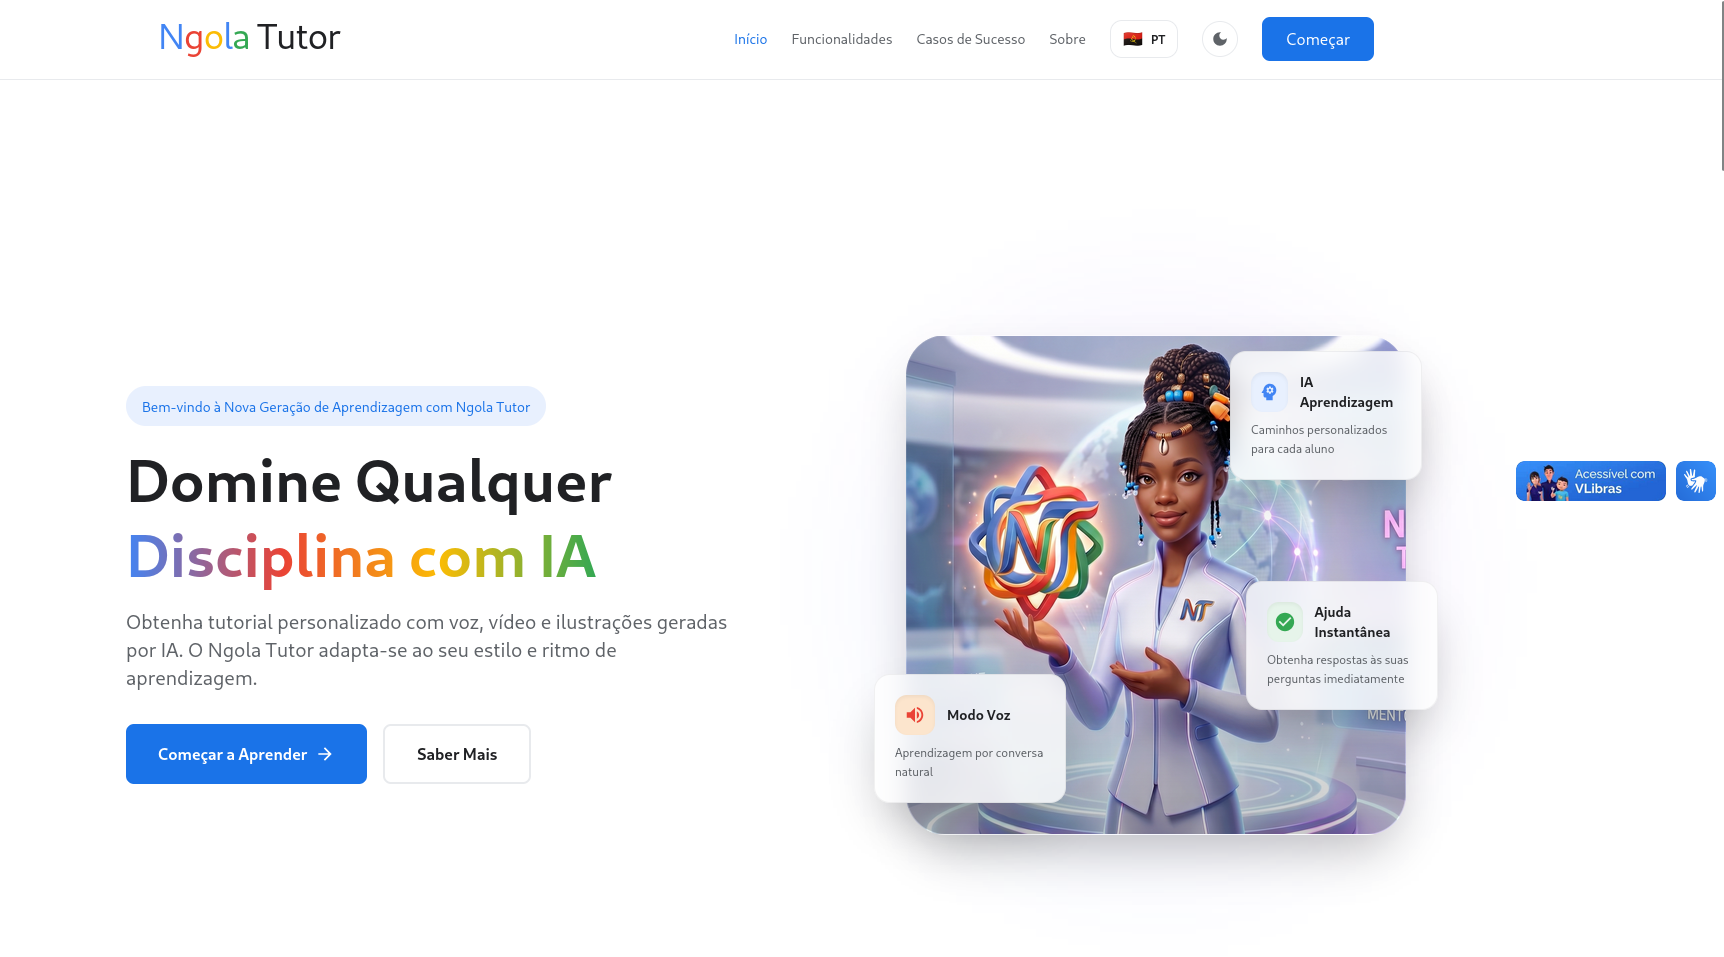
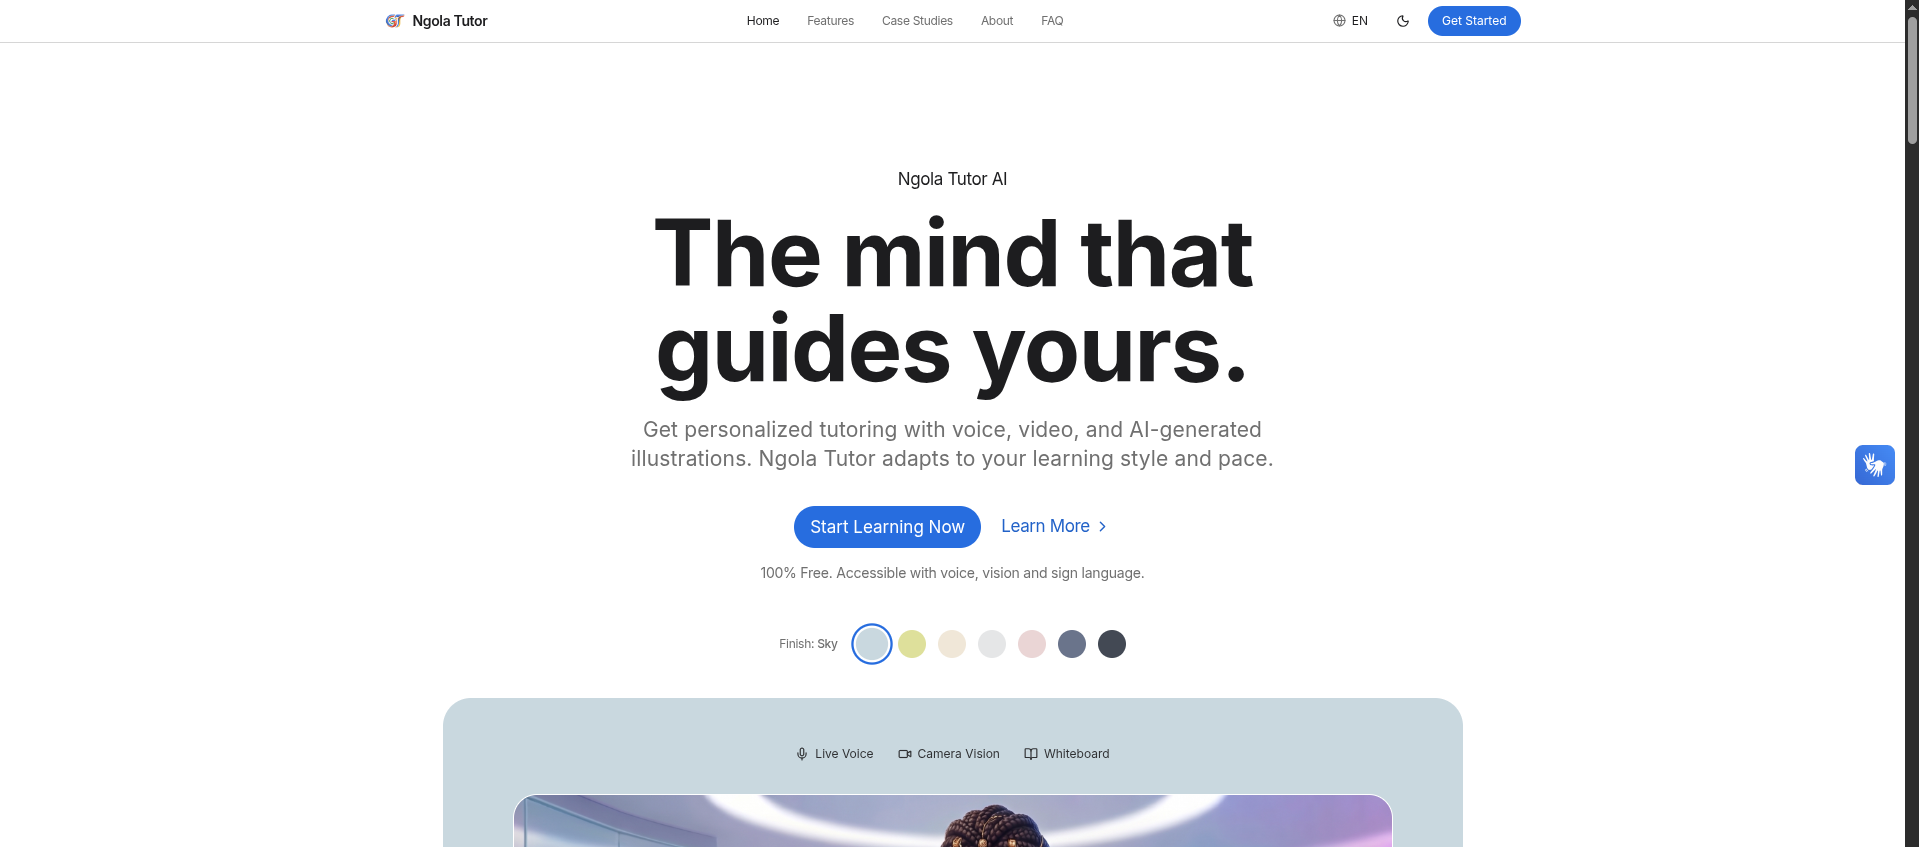
update: nova atualização de todos os dados concluidos com sucesso. falta trabalhar na biblioteca

diff --git a/public/portfolio.html b/public/portfolio.html
@@ -2659,6 +2659,7 @@
         </button>
         <div class="lang-menu" id="langMenu">
           <button onclick="changeLanguage('pt')">🇦🇴 Português</button>
+          <button onclick="changeLanguage('en')">🇺🇸 English</button>
         </div>
       </div>
 
@@ -2678,7 +2679,7 @@
         <!--<div class="hero-eyebrow" data-i18n="hero.eyebrow"><span class="ms sm fill" style="color:green">fiber_manual_record</span>
           Disponível para Consultoria de TI</div> -->
         <h1 class="hero-name">Tiago<br /><em>Matias</em></h1>
-        <div class="hero-role"><span class="role-text" id="roleText">Desenvolvedor de Software | Engenheiro de Software)</span></div>
+        <div class="hero-role"><span class="role-text" id="roleText">Desenvolvedor de Software | Engenheiro de Software</span></div>
         <p class="hero-desc" data-i18n="hero.desc">Desenvolvedor Software com mais de 3 anos de experiência prática em Aplicações Web, Mobile e Automação de Sistemas</p>
         <div class="hero-actions">
           <a class="btn-primary" id="resumeDownloadLink" href="/asset/Tiago_Matias_CV.pdf"
@@ -2791,11 +2792,11 @@
         <div class="skill-card reveal">
           <div class="skill-card-title" data-i18n="skills.cyber">Cibersegurança</div>
           <div class="skill-tags">
-            <span class="skill-tag hl">IBSEC</span><span class="skill-tag hl">Analista Soc na era da IA</span>
+            <span class="skill-tag hl">IBSEC</span><span class="skill-tag hl">Analista SOC na era da IA</span>
             <span class="skill-tag">CyberTalent</span><span class="skill-tag">Labs</span>
-            <span class="skill-tag">MBX Brasil- Treinamento de segurança de Informação</span>Imersão<span class="skill-tag"></span>
-            <span class="skill-tag">Hacker The Box</span><span class="skill-tag">Red Team</span>
-            <span class="skill-tag">Cisco</span><span class="skill-tag">Skills to all Academy</span>
+            <span class="skill-tag">MBX Brasil - Treinamento de Segurança da Informação</span><span class="skill-tag">Imersão</span>
+            <span class="skill-tag">Hack The Box</span><span class="skill-tag">Red Team</span>
+            <span class="skill-tag">Cisco</span><span class="skill-tag">Skills for All Academy</span>
             <span class="skill-tag">Google</span><span class="skill-tag">Google Skills</span>
           </div>
         </div>
@@ -2926,7 +2927,40 @@
       </div>
       <div class="projects-grid" id="projectsGrid">
 
-        <!-- 1. Ngola Tutor -->
+        <!-- 1. Heetch Easy -->
+        <div class="project-card reveal" data-cat="design">
+          <div class="project-thumb">
+            <img src="heetch.png" alt="Heetch Easy" />
+            <span class="project-badge b-ux">UI/UX</span>
+          </div>
+          <div class="project-body">
+            <div class="project-title">Heetch Easy</div>
+            <div class="project-desc" data-i18n="desc.heetch">Prototipação de aplicação de transporte Heetch com UX completo, focando na acessibilidade e otimização do fluxo de experiência do utilizador.</div>
+            <div class="project-techs"><span class="project-tech">Figma</span><span
+                class="project-tech">Canva</span><span class="project-tech">UI/UX</span></div>
+            <a class="project-link" href="https://www.behance.net/gallery/210297691/Heetch-Easy" target="_blank" data-i18n="project.btn.view">Ver no Behance <span
+                class="ms sm">open_in_new</span></a>
+          </div>
+        </div>
+
+        <!-- 2. NutriScan App -->
+        <div class="project-card reveal" data-cat="mobile ai">
+          <div class="project-thumb">
+            <img src="nutriscan.png" alt="NutriScan App" />
+            <span class="project-badge b-gold" data-i18n="project.badge.mobile">MOBILE</span>
+          </div>
+          <div class="project-body">
+            <div class="project-title">NutriScan App</div>
+            <div class="project-desc" data-i18n="desc.nutriscan">Desenvolvi aplicação mobile de rastreamento nutricional com Inteligência Artificial, alcançando mais de 80 utilizadores em mais de 7 países, com arquitetura de componentes reutilizáveis e consumo de APIs REST.</div>
+            <div class="project-techs"><span class="project-tech">React Native</span><span
+                class="project-tech">Expo</span><span class="project-tech">REST API</span><span
+                class="project-tech">AI</span></div>
+            <a class="project-link" href="https://com-wnutriscan-19285553.br.uptodown.com/android" target="_blank" data-i18n="project.btn.view">Ver Projecto <span
+                class="ms sm">open_in_new</span></a>
+          </div>
+        </div>
+
+        <!-- 3. Ngola Tutor -->
         <div class="project-card reveal" data-cat="ai web">
           <div class="project-thumb">
             <img src="geminiTutor.png" alt="Gemini Tutor" />
@@ -2936,7 +2970,7 @@
             <div class="project-title">Ngola Tutor</div>
             <div class="project-desc" data-i18n="proj.tutor.desc">Ngola Tutor é um aplicativo web full-stack que atua como um tutor de IA paciente.
               Isso ajuda os alunos a entender os problemas passo a passo, sem dar respostas diretas – incentivando-os a
-              descobrir soluções por conta própria de forma pedagogica. Atualmente é uma das formas que a comunidade Educate of Power usa para auxliar no ensino no Kenia.</div>
+              descobrir soluções por conta própria de forma pedagógica.</div>
             <div class="project-techs"><span class="project-tech">ReactJs</span><span
                 class="project-tech">Express</span><span class="project-tech">Supabase</span><span
                 class="project-tech">Google Cloud</span></div>
@@ -2950,83 +2984,8 @@
           </div>
         </div>
 
-        <!-- 2. Fenix Goals -->
-        <div class="project-card reveal" data-cat="web">
-          <div class="project-thumb">
-            <img
-            src="/Screenshot from 2026-02-11 02-17-16.png"
-              alt="Fenix Goals" />
-          </div>
-          <div class="project-body">
-            <div class="project-title">Fenix Goals</div>
-            <div class="project-desc" data-i18n="proj.fenix.desc">Plataforma de alta performance para transformar metas abstractas em conquistas.
-              Baseada no método de Brian Tracy.</div>
-            <div class="project-techs"><span class="project-tech">TypeScript</span><span
-                class="project-tech">HTML</span></div>
-            <a class="project-link" href="https://fenix-goals.vercel.app" target="_blank" data-i18n="project.btn.view">Ver Projecto <span
-                class="ms sm">open_in_new</span></a>
-          </div>
-        </div>
-
-        <!-- 3. Lbu.dev -->
-        <div class="project-card reveal" data-cat="design">
-          <div class="project-thumb">
-            <img src="imagemAI.png" alt="Lbu.dev" />
-            <span class="project-badge b-ux" data-i18n="filter.social">n8n</span>
-          </div>
-          <div class="project-body">
-            <div class="project-title">Lbu.dev</div>
-            <div class="project-desc" data-i18n="proj.lbu.desc">Landing Page de apresentação dos serviços de desenvolvimento de Agentes de IA que
-              ajudam empresas a automatizar tarefas. Está landing page é sustentada pelos agentes de Ai que eu
-              desenvolvi para responderem e otimizar o serviço todo</div>
-            <div class="project-techs"><span class="project-tech">N8N</span><span class="project-tech">Google
-                Drive</span><span class="project-tech">Google
-                Sheets</span><span class="project-tech">Gmail</span>
-            </div>
-            <a class="project-link" href="https://lbu-dev-gente.vercel.app/" target="_blank" data-i18n="project.btn.service">Ver o serviço <span
-                class="ms sm">open_in_new</span></a>
-          </div>
-        </div>
-
-        <!-- 4. SkillarCode -->
+        <!-- 4. Agriconnect -->
         <div class="project-card reveal" data-cat="web mobile">
-          <div class="project-thumb">
-            <img src="Screenshot From 2026-04-02 00-06-08.png" alt="SkillarCode" />
-            <span class="project-badge b-gold" data-i18n="project.badge.featured_projects">DESTACADO</span>
-          </div>
-          <div class="project-body">
-            <div class="project-title">SkillarCode</div>
-            <div class="project-desc" data-i18n="desc.skillarcode">Plataforma de competição para prompt engineering. Durante o desenvolvimento,
-              fiquei responsável por tratar de toda a parte do design e front-end incluindo a integração de AI's e
-              de LLMs.
-            </div>
-            <div class="project-techs"><span class="project-tech">React Native</span><span
-                class="project-tech">TypeScript</span><span class="project-tech">AI Learning</span></div>
-            <a class="project-link" href="https://42skillar.geniomatias.me/" target="_blank" data-i18n="project.btn.view">Ver Projecto <span
-                class="ms sm">open_in_new</span></a>
-          </div>
-        </div>
-
-        <!-- 5. Chronicles of the Unspoken -->
-        <div class="project-card reveal" data-cat="ai web">
-          <div class="project-thumb">
-            <img src="chron.png" alt="Chronicles of the Unspoken" />
-            <span class="project-badge b-ai" data-i18n="project.badge.hackathon">IA</span>
-          </div>
-          <div class="project-body">
-            <div class="project-title">Chronicles of the Unspoken</div>
-            <div class="project-desc" data-i18n="desc.chronicles">Um jogo RPG tactico imersivo baseado em Investigação criminal onde o jogador tem
-              que resolver um crime investigando, coletando pistas e entrevistando testemunhas.
-            </div>
-            <div class="project-techs"><span class="project-tech">ReactJs</span><span class="project-tech">Gemini 2.5
-                Live</span> <span class="project-tech">Google Cloud</span></div>
-            <a class="project-link" href="https://chronicles-of-the-unspoken.vercel.app/" target="_blank" data-i18n="project.btn.view">Ver Projecto
-              <span class="ms sm">open_in_new</span></a>
-          </div>
-        </div>
-
-        <!-- 6. Agriconnect -->
-        <div class="project-card reveal" data-cat="web ai">
           <div class="project-thumb">
             <img src="agriconnect_mockup.png" alt="Agriconnect" />
             <span class="project-badge b-ai" data-i18n="project.badge.agrotech">AGROTECH</span>
@@ -3045,34 +3004,30 @@
           </div>
         </div>
 
-      </div>
-      <script>
-        (function() {
-          const grid = document.getElementById('projectsGrid');
-          if (grid) {
-            const cards = Array.from(grid.children).filter(el => el.classList.contains('project-card'));
-            // Fisher-Yates shuffle
-            for (let i = cards.length - 1; i > 0; i--) {
-              const j = Math.floor(Math.random() * (i + 1));
-              grid.appendChild(cards[j]);
-            }
-            // Keep only the first 3
-            const updatedCards = Array.from(grid.children).filter(el => el.classList.contains('project-card'));
-            updatedCards.forEach((card, index) => {
-              if (index >= 3) {
-                card.remove();
-              }
-            });
-          }
-        })();
-      </script>
+        <!-- 5. Fenix Goals -->
+        <div class="project-card reveal" data-cat="web">
+          <div class="project-thumb">
+            <img src="Screenshot from 2026-02-11 02-17-16.png" alt="Fenix Goals" />
+          </div>
+          <div class="project-body">
+            <div class="project-title">Fenix Goals</div>
+            <div class="project-desc" data-i18n="proj.fenix.desc">Plataforma de alta performance para transformar metas abstractas em conquistas.
+              Baseada no método de Brian Tracy.</div>
+            <div class="project-techs"><span class="project-tech">TypeScript</span><span
+                class="project-tech">HTML</span></div>
+            <a class="project-link" href="https://fenix-goals.vercel.app" target="_blank" data-i18n="project.btn.view">Ver Projecto <span
+                class="ms sm">open_in_new</span></a>
+          </div>
+        </div>
 
-      <!-- Ver mais projetos button -->
+      </div>
+
+      <!-- Ver mais projetos button 
       <div style="display: flex; justify-content: center; margin-top: 50px;" class="reveal">
         <a href="projects.html" class="btn-primary" style="padding: 14px 36px; font-size: 1rem; border-radius: 30px; letter-spacing: 0.5px; box-shadow: 0 4px 15px rgba(255, 183, 3, 0.15);" data-i18n="projects.more">
           Ver mais projetos <span class="ms sm" style="font-weight: bold; margin-left: 4px;">arrow_forward</span>
         </a>
-      </div>
+      </div>-->
     </div>
   </section>
 
@@ -3149,9 +3104,9 @@
         <span class="tag" data-i18n="project.badge.hackathon">HACKATHON GOOGLE AI</span>
         <span data-i18n="highlight.unspoken">Chronicles of the Unspoken - Google DeepMind Hackathon 2026</span>
       </a>
-      <a href="https://42ctf.org/en/scoreboard/network/" target="_blank" class="hack-item">
-        <span class="tag" data-i18n="project.badge.ctf">COMPETIÇÃO DE CYBER SEGURANÇA 42NETWORK</span>
-        <span data-i18n="highlight.ctf_full">Tiago Matias e Liedson Habacuc tiveram grande destaque no ctf da 42Network deixando a 42Luanda na posição 10 em um ranking com mais de 100 equipas</span>
+      <a href="https://profile.hackthebox.com/profile/019ed2b1-e672-71e5-b344-abb36448f724" target="_blank" class="hack-item">
+        <span class="tag" data-i18n="project.badge.ctf">COMPETIÇÃO DE CYBER SEGURANÇA HACKTHEBOX</span>
+        <span data-i18n="highlight.ctf_full">Foi um grande destaque nas duas ultimas competições de Cibersegurança</span>
       </a>
       <a href="#projects" class="hack-item">
         <span class="tag" data-i18n="project.badge.event">EVENTO</span>
@@ -3167,9 +3122,9 @@
         <span class="tag" data-i18n="project.badge.hackathon">HACKATHON GOOGLE AI</span>
         <span data-i18n="highlight.unspoken_game">Chronicles of the Unspoken - Jogo de Investigação criminal</span>
       </a>
-      <a href="https://42ctf.org/en/scoreboard/network/" target="_blank" class="hack-item">
-        <span class="tag" data-i18n="project.badge.ctf">COMPETIÇÃO DE CYBER SEGURANÇA 42NETWORK</span>
-        <span data-i18n="highlight.ctf_full">Tiago Matias e Liedson Habacuc tiveram grande destaque no ctf da 42Network deixando a 42Luanda na posição 10 em um ranking com mais de 100 equipas</span>
+      <a href="https://profile.hackthebox.com/profile/019ed2b1-e672-71e5-b344-abb36448f724" target="_blank" class="hack-item">
+        <span class="tag" data-i18n="project.badge.ctf">COMPETIÇÃO DE CYBER SEGURANÇA Hack The Box</span>
+        <span data-i18n="highlight.ctf_full">Foi um grande destaque nas duas ultimas competições de Cibersegurança</span>
       </a>
       <a href="https://committers.top/angola" class="hack-item">
         <span class="tag" data-i18n="project.badge.featured">GITHUB DESTAQUE</span>
@@ -3306,12 +3261,12 @@
           <div class="exp-col-title" style="margin-top:36px" data-i18n="exp.can_do_title">O Que Consigo Fazer</div>
           <div class="can-do">
             <div class="can-do-item reveal"><span class="ms sm">web</span><span data-i18n="cando.web_mobile">Desenvolvimento Web &amp; Mobile</span></div>
-            <div class="can-do-item reveal"><span class="ms sm">palette</span><span data-i18n="cando.uiux">Design UI/UX &amp; Prototipagem</span></div>
+            <div class="can-do-item reveal"><span class="ms sm">web</span><span data-i18n="cando.web_mobile">Automação de Sistemas</span></div>
+            <div class="can-do-item reveal"><span class="ms sm">web</span><span data-i18n="cando.web_mobile">Desenvolvimento Web &amp; Mobile</span></div>
+            <div class="can-do-item reveal"><span class="ms sm">palette</span><span data-i18n="cando.uiux">Web Design &amp; Prototipagem</span></div>
             <div class="can-do-item reveal"><span class="ms sm">security</span><span data-i18n="cando.pentesting">Pentesting &amp; Segurança de Redes</span></div>
-            <div class="can-do-item reveal"><span class="ms sm">settings</span><span data-i18n="cando.systems">Desenvolvimento de Sistemas (C/C++/Python)</span></div>
-            <div class="can-do-item reveal"><span class="ms sm fill">smart_toy</span><span data-i18n="cando.ai">Integração de IA &amp; Automação</span></div>
-            <div class="can-do-item reveal"><span class="ms sm">movie</span><span data-i18n="cando.video">Edição de Vídeo &amp; Produção com IA</span></div>
-            <div class="can-do-item reveal"><span class="ms sm">sell</span><span data-i18n="cando.social">Social Media &amp; Criação de Conteúdo de forma automatizada com IA</span></div>
+            <div class="can-do-item reveal"><span class="ms sm">settings</span><span data-i18n="cando.systems">Desenvolvimento de Sistemas</span></div>
+            <div class="can-do-item reveal"><span class="ms sm fill">smart_toy</span><span data-i18n="cando.ai">Integração de IA &amp;</span></div>
             <div class="can-do-item reveal"><span class="ms sm">smart_toy</span><span data-i18n="cando.tests">Testes de aplicações mobile e web</span></div>
           </div>
           
@@ -3334,7 +3289,7 @@
       <div class="reveal">
         <div class="section-label">Contacto</div>
         <h2 class="contact-big">Vamos<br /><em>trabalhar</em><br />juntos.</h2>
-        <p class="contact-sub">Disponível para posições full-time, part-time ou projectos de colaboração. Se tens um
+        <p class="contact-sub">Disponível para posições freelancer. Se tens um
           problema real para resolver — eu quero saber.</p>
         <a class="contact-email" href="mailto:tiagomatias072@gmail.com">tiagomatias072@gmail.com <span
             class="ms sm">arrow_forward</span></a>
@@ -3350,11 +3305,6 @@
               <rect x="2" y="9" width="4" height="12" />
               <circle cx="4" cy="4" r="2" />
             </svg> LinkedIn</a>
-          <a class="c-link" href="https://www.behance.net/tiagomatias42" target="_blank"><svg viewBox="0 0 24 24"
-              fill="currentColor">
-              <path
-                d="M22 7h-7V5h7v2zm1.726 10c-.442 1.297-2.029 3-5.101 3-3.074 0-5.564-1.729-5.564-5.675 0-3.91 2.325-5.92 5.466-5.92 3.082 0 4.964 1.782 5.375 4.426.078.506.109 1.188.095 2.14H15.97c.13 3.211 3.483 3.312 4.588 2.029zm-7.726-3h3.427c-.103-1.479-1.218-2.096-1.99-2.096-.795 0-1.94.636-1.437 2.096zM10.9 7.046c0 1.549-1.246 2.345-1.246 2.345.849.285 2.346 1.105 2.346 3.291 0 2.764-2.246 3.318-4.237 3.318H.01V3.073h7.571c2.23 0 3.32 1.087 3.32 2.973zM4 8.577h2.629c.744 0 1.311-.336 1.311-1.133 0-.773-.559-1.148-1.418-1.148H4v2.281zm0 5.392h2.875c.756 0 1.596-.239 1.596-1.269 0-1.135-.829-1.35-1.865-1.35H4v2.619z" />
-            </svg> Behance</a>
           <a class="c-link" href="https://g.dev/tiagomatias" target="_blank">
             <span class="ms sm">account_circle</span>
             Google Devs
@@ -3371,7 +3321,6 @@
     <span>
       <a href="https://github.com/tiagomatias930" target="_blank">GitHub</a> ·
       <a href="https://www.linkedin.com/in/tiago-matias-062b88217" target="_blank">LinkedIn</a> ·
-      <a href="https://www.behance.net/tiagomatias42" target="_blank">Behance</a>
       <a href="https://g.dev/tiagomatias" target="_blank">Google Devs</a>
     </span>
   </footer>
